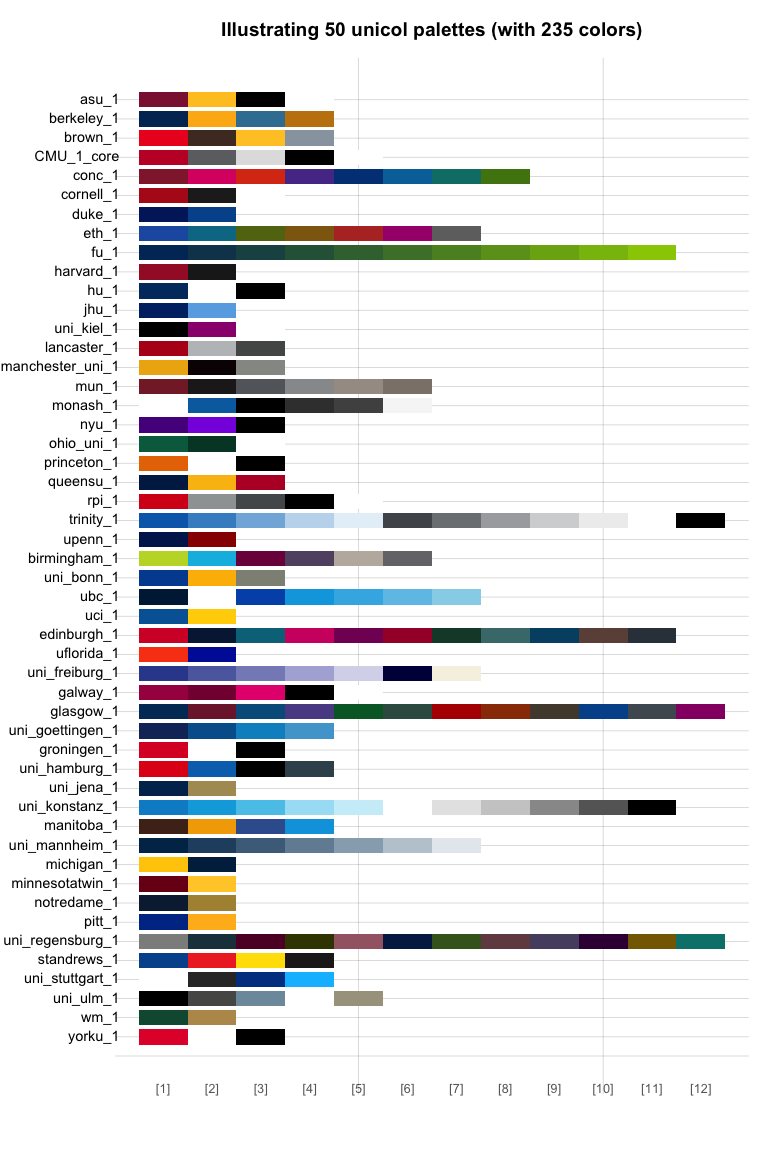
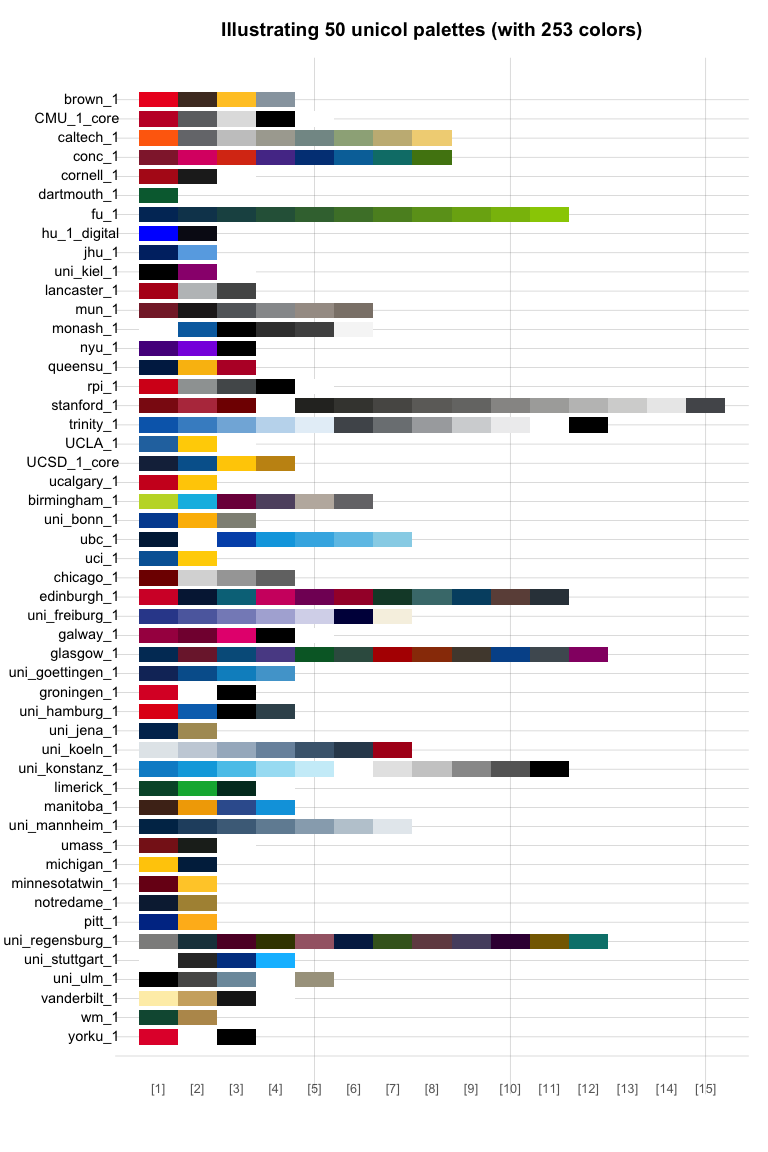
update README

diff --git a/README.md b/README.md
@@ -15,7 +15,7 @@ status](https://www.r-pkg.org/badges/version/unicol)](https://CRAN.R-project.org
 <!-- [![DOI](https://zenodo.org/badge/DOI/10.5281/zenodo.8252106.svg)](https://doi.org/10.5281/zenodo.8252106) -->
 <!-- Release badges end. -->
 
-# unicol 0.1.0.9006 <img src = "man/figures/logo.png" align = "right" alt = "unicol::" width = "165px" alt="" />
+# unicol 0.1.0.9007 <img src = "man/figures/logo.png" align = "right" alt = "unicol::" width = "165px" alt="" />
 
 <!-- unicol pkg logo and link: -->
 <!-- <a href = "https://CRAN.R-project.org/package=unicol"> -->
@@ -79,7 +79,7 @@ library(unikn)   # for color functions
 
 ## Contents
 
-The **unicol** package currently provides **211 color palettes** from
+The **unicol** package currently provides **214 color palettes** from
 **91 institutions**.
 
 <!-- **Table\ 1** provides an overview of all color palettes:  -->
@@ -92,18 +92,18 @@ palettes and institutions.)
 
 ### Examples of color palettes
 
-<!-- The **unicol** package currently contains **211\ color palettes** from **91\ institutions**.  -->
+<!-- The **unicol** package currently contains **214\ color palettes** from **91\ institutions**.  -->
 <!-- Example 1: Random pals (from vignette color_pals.Rmd): -->
 <!-- Show as a table: -->
 <!-- Show as a figure: -->
 
-**Figure 1** illustrates 50 random color palettes (with 235 colors):
+**Figure 1** illustrates 50 random color palettes (with 253 colors):
 
 <div class="figure" style="text-align: center">
 
-<img src="man/figures/README-unicol-pals-example-1-figure-1.png" alt="Figure 1: A sample of 50 unicol palettes (containing 235 colors)." width="90%" />
+<img src="man/figures/README-unicol-pals-example-1-figure-1.png" alt="Figure 1: A sample of 50 unicol palettes (containing 253 colors)." width="90%" />
 <p class="caption">
-Figure 1: A sample of 50 unicol palettes (containing 235 colors).
+Figure 1: A sample of 50 unicol palettes (containing 253 colors).
 </p>
 
 </div>
@@ -315,6 +315,6 @@ creators.
 
 <!-- Footer: -->
 
-\[File `README.Rmd` updated on 2023-08-29.\]
+\[File `README.Rmd` updated on 2023-08-31.\]
 
 <!-- eof. -->
